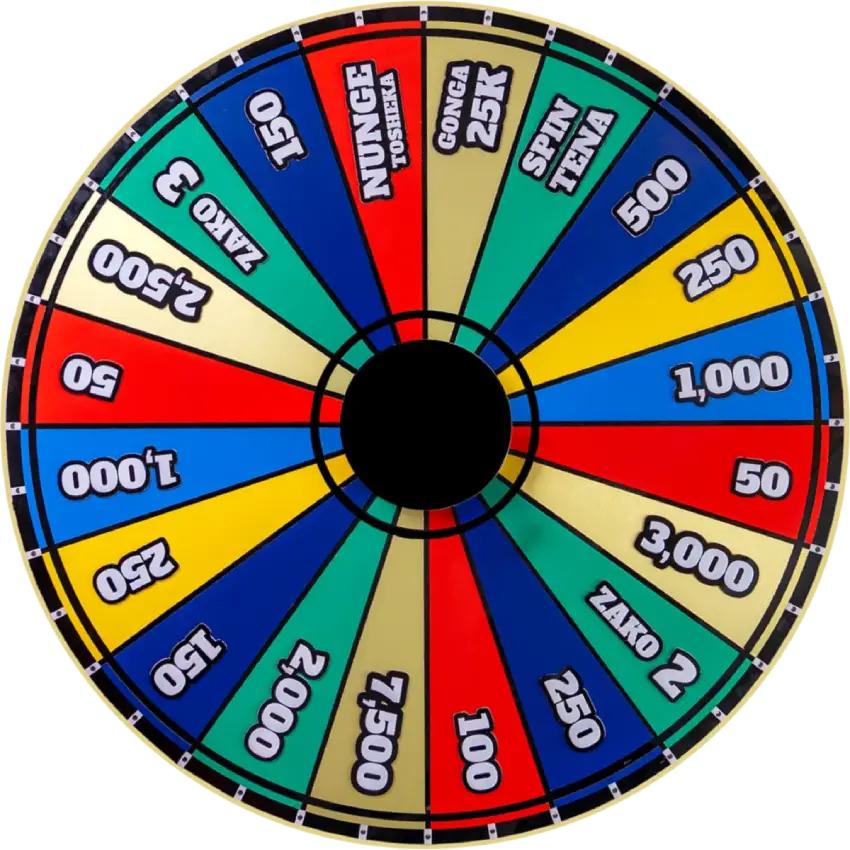
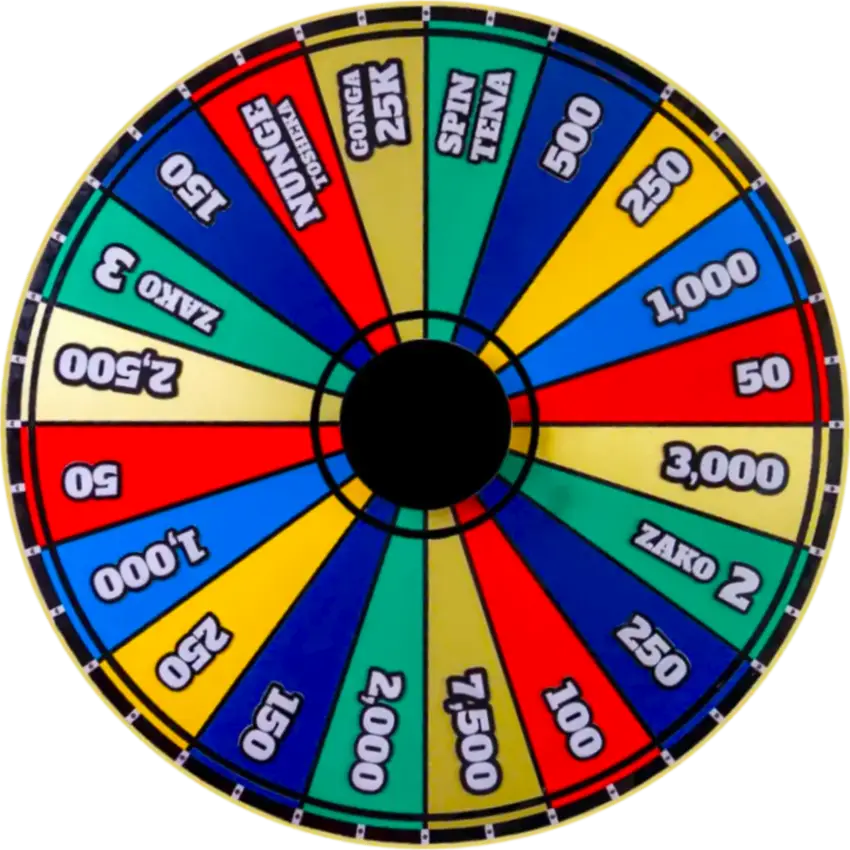
updated the final angle

diff --git a/src/Components/Canvas.tsx b/src/Components/Canvas.tsx
@@ -48,49 +48,49 @@ export const Canvas: FC<CanvasProps> = ({spinState, OnSetWinner, freeSpinCount})
         ctx.save();
         ctx.beginPath();
         ctx.arc(centerX, centerY, radius, 0, Math.PI * 2);
-        // colorsRef.current = wheelData;
-        // const colors = colorsRef.current;
-        // const sliceAngle = (2 * Math.PI) / colors.length;
-        // const sliceColors = ["#f44336", "#2196f3", "#4caf50", "#ffeb3b", "#9c27b0"];
-        //
-        // const innerRadius = 100; // 👈 adjust until it matches the black circle in the real wheel
-        //
-        // colors.forEach((block, i) => {
-        //     const startAngle = i * sliceAngle + offsetRef.current;
-        //     const endAngle = startAngle + sliceAngle;
-        //
-        //     ctx.beginPath();
-        //
-        //     // start at inner arc
-        //     ctx.arc(centerX, centerY, innerRadius, endAngle, startAngle, true);
-        //     // outer arc
-        //     ctx.arc(centerX, centerY, radius, startAngle, endAngle);
-        //     ctx.closePath();
-        //
-        //     // fill background
-        //     ctx.fillStyle = sliceColors[i % sliceColors.length];
-        //     ctx.fill();
-        //
-        //     ctx.strokeStyle = "#000";
-        //     ctx.lineWidth = 2;
-        //     ctx.stroke();
-        //
-        //     // 📝 draw text
-        //     ctx.save();
-        //     ctx.translate(centerX, centerY);
-        //     ctx.rotate((startAngle + endAngle) / 2);
-        //
-        //     ctx.textAlign = "center";
-        //     ctx.fillStyle = "#000";
-        //     ctx.font = "bold 22px Arial";
-        //     ctx.fillText(
-        //         block.value.toString(),
-        //         (innerRadius + radius) / 2, // 👈 place text halfway between inner & outer radius
-        //         0
-        //     );
-        //     ctx.restore();
-        // });
-        //
+        colorsRef.current = wheelData;
+        const colors = colorsRef.current;
+        const sliceAngle = (2 * Math.PI) / colors.length;
+        const sliceColors = ["#f44336", "#2196f3", "#4caf50", "#ffeb3b", "#9c27b0"];
+
+        const innerRadius = 100; // 👈 adjust until it matches the black circle in the real wheel
+
+        colors.forEach((block, i) => {
+            const startAngle = i * sliceAngle + offsetRef.current;
+            const endAngle = startAngle + sliceAngle;
+
+            ctx.beginPath();
+
+            // start at inner arc
+            ctx.arc(centerX, centerY, innerRadius, endAngle, startAngle, true);
+            // outer arc
+            ctx.arc(centerX, centerY, radius, startAngle, endAngle);
+            ctx.closePath();
+
+            // fill background
+            ctx.fillStyle = sliceColors[i % sliceColors.length];
+            ctx.fill();
+
+            ctx.strokeStyle = "#000";
+            ctx.lineWidth = 2;
+            ctx.stroke();
+
+            // 📝 draw text
+            ctx.save();
+            ctx.translate(centerX, centerY);
+            ctx.rotate((startAngle + endAngle) / 2);
+
+            ctx.textAlign = "center";
+            ctx.fillStyle = "#000";
+            ctx.font = "bold 22px Arial";
+            ctx.fillText(
+                block.value.toString(),
+                (innerRadius + radius) / 2, // 👈 place text halfway between inner & outer radius
+                0
+            );
+            ctx.restore();
+        });
+
 
         // Create radial gradient for shadow just outside the border
 

diff --git a/src/Hooks/useColors.ts b/src/Hooks/useColors.ts
@@ -26,10 +26,19 @@ import {useEffect, useRef} from "react";
 // ];
 
 export const wheelData: WheelSegment[] = [
+    { type: "number", value: 3000 },
+    { type: "text", value: "ZAKO 2" },
+    { type: "number", value: 250 },
+    { type: "number", value: 100 },
+    { type: "number", value: 7500 },
+    { type: "number", value: 2000 },
+    { type: "number", value: 150 },
+    { type: "number", value: 250 },
+    { type: "number", value: 1000 },
     { type: "number", value: 50 },
     { type: "number", value: 2500 },
     { type: "text", value: "ZAKO 3" },
-    { type: "number", value: 150 },
+    { type: "number", value: 150},
     { type: "text", value: "NUNGE TOSHEKA" },
     { type: "text", value: "GONGA 25K" },
     { type: "text", value: "SPIN TENA" },
@@ -37,15 +46,6 @@ export const wheelData: WheelSegment[] = [
     { type: "number", value: 250 },
     { type: "number", value: 1000 },
     { type: "number", value: 50 },
-    { type: "number", value: 3000 },
-    { type: "text", value: "ZAKO 2" },
-    { type: "number", value: 250},
-    { type: "number", value: 100 },
-    { type: "number", value: 7500 },
-    { type: "number", value: 2000 },
-    { type: "number", value: 150 },
-    { type: "number", value: 250 },
-    { type: "number", value: 1000 }
 ];
 
 
